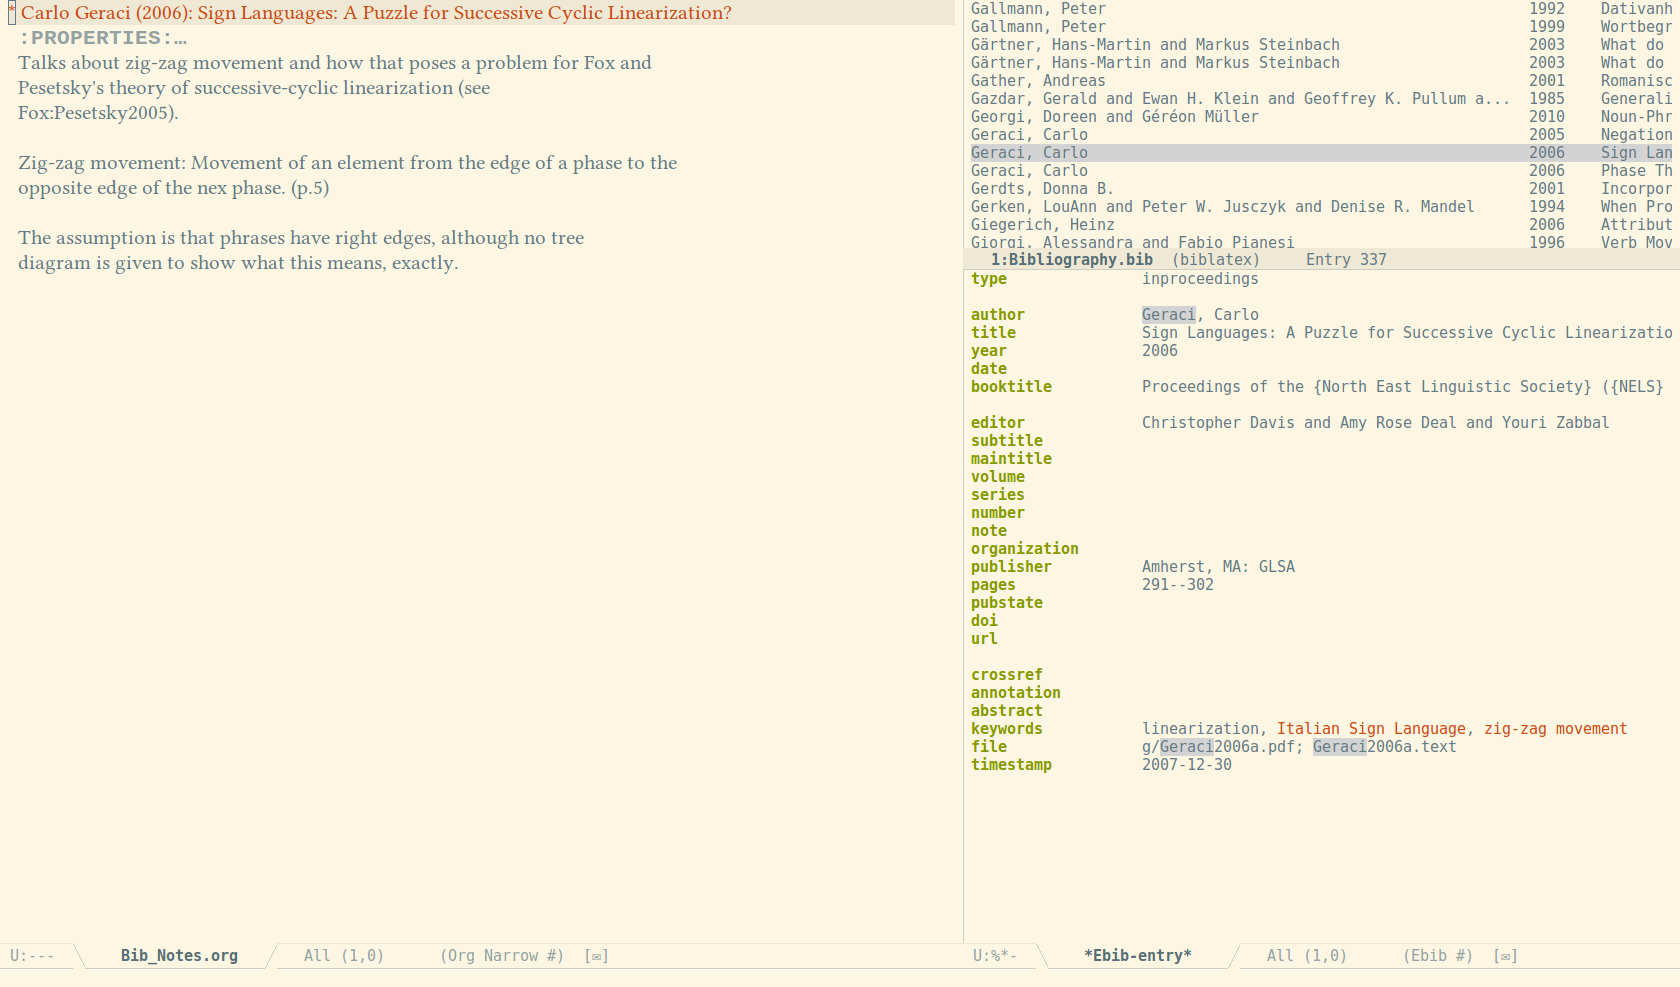
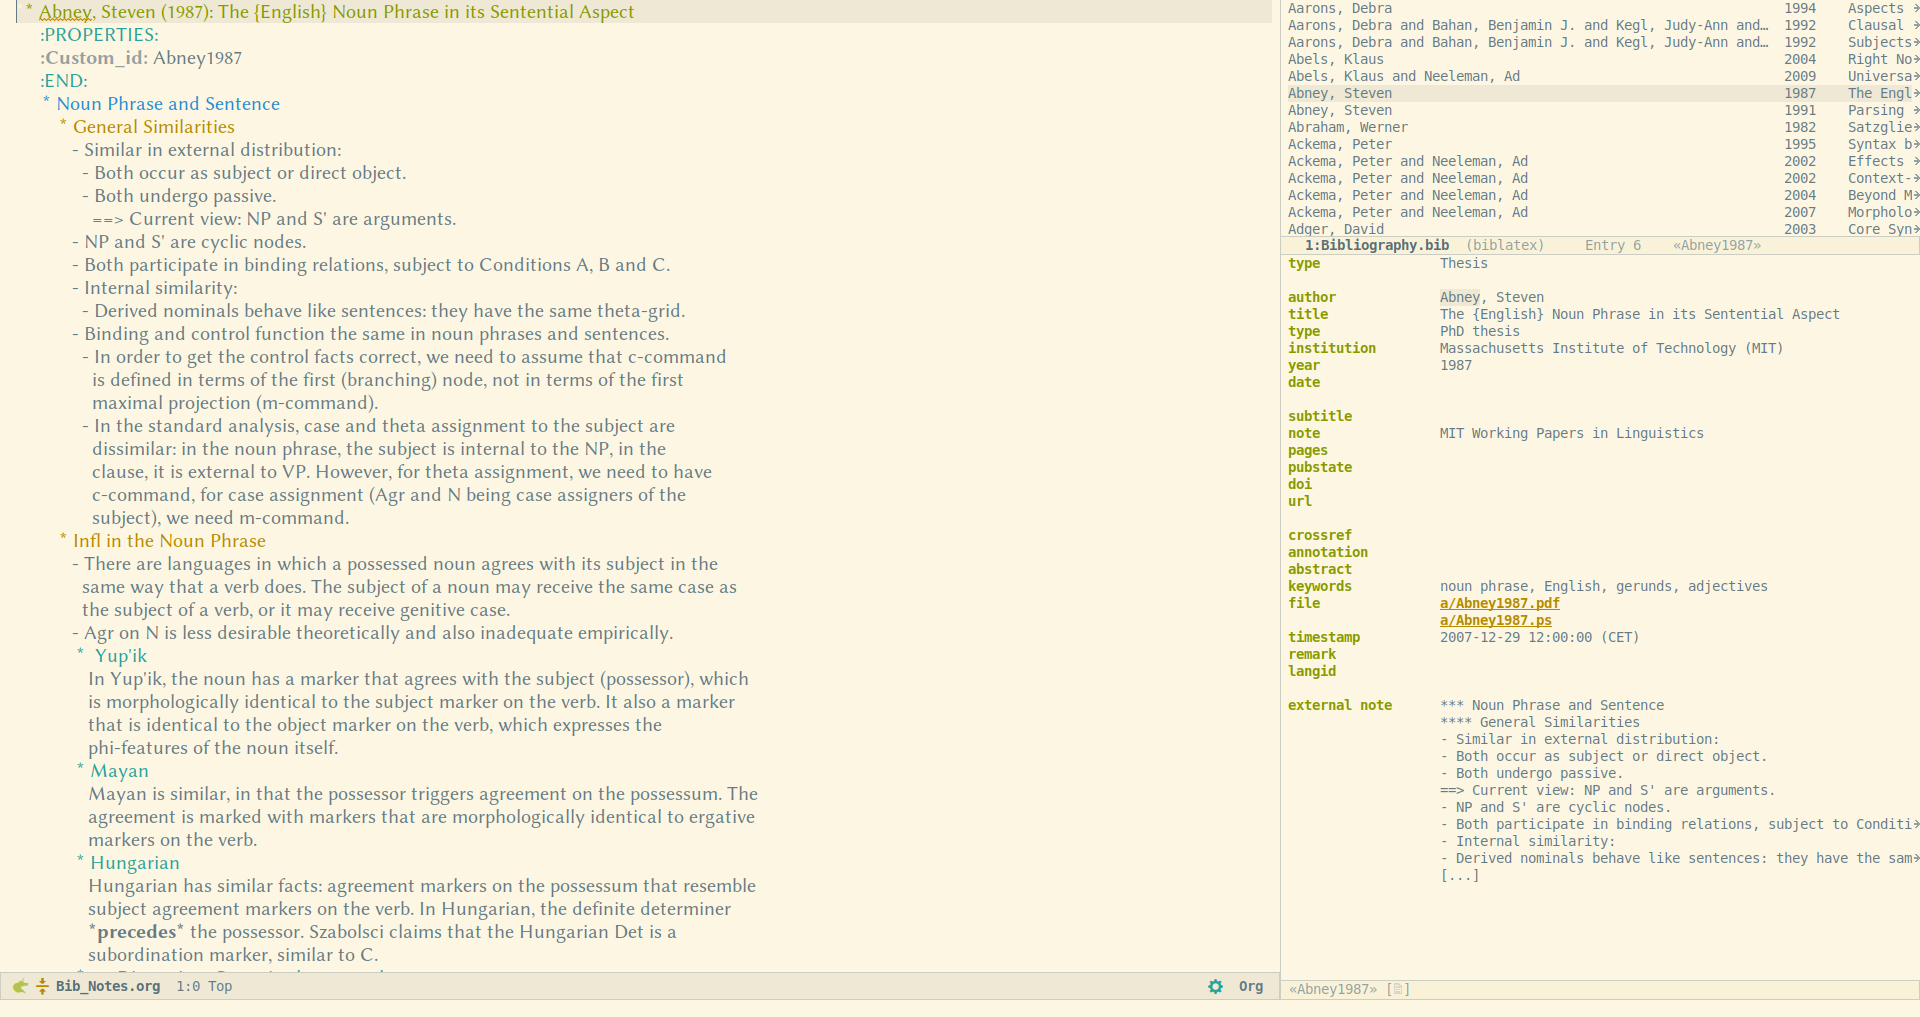
Update search view screen shot.
Make sure the screen shot has the same size as the other two images, so that
there's no "hopping" in the modal view.

diff --git a/docs/index.html b/docs/index.html
@@ -46,7 +46,7 @@
     <div class="screenshot-item">
       <p><img src="images/Search-view.png" class="screenshot screenshot-right" onclick="openModal();currentSlide(2)" alt="Search View" /></p>
       <h3 id="search-view">Search view</h3>
-      <p>In the second image, which uses an alternative partial-frame layout, the string <code>"Geraci"</code> is highlighted as the result of a text search. It also shows a buffer with a note for the highlighted entry.</p>
+      <p>In the second image, which uses an alternative partial-frame layout, the string <code>"Abney"</code> is highlighted as the result of a text search. It also shows a buffer with a note for the highlighted entry.</p>
     </div>
 
     <div class="screenshot-item">
